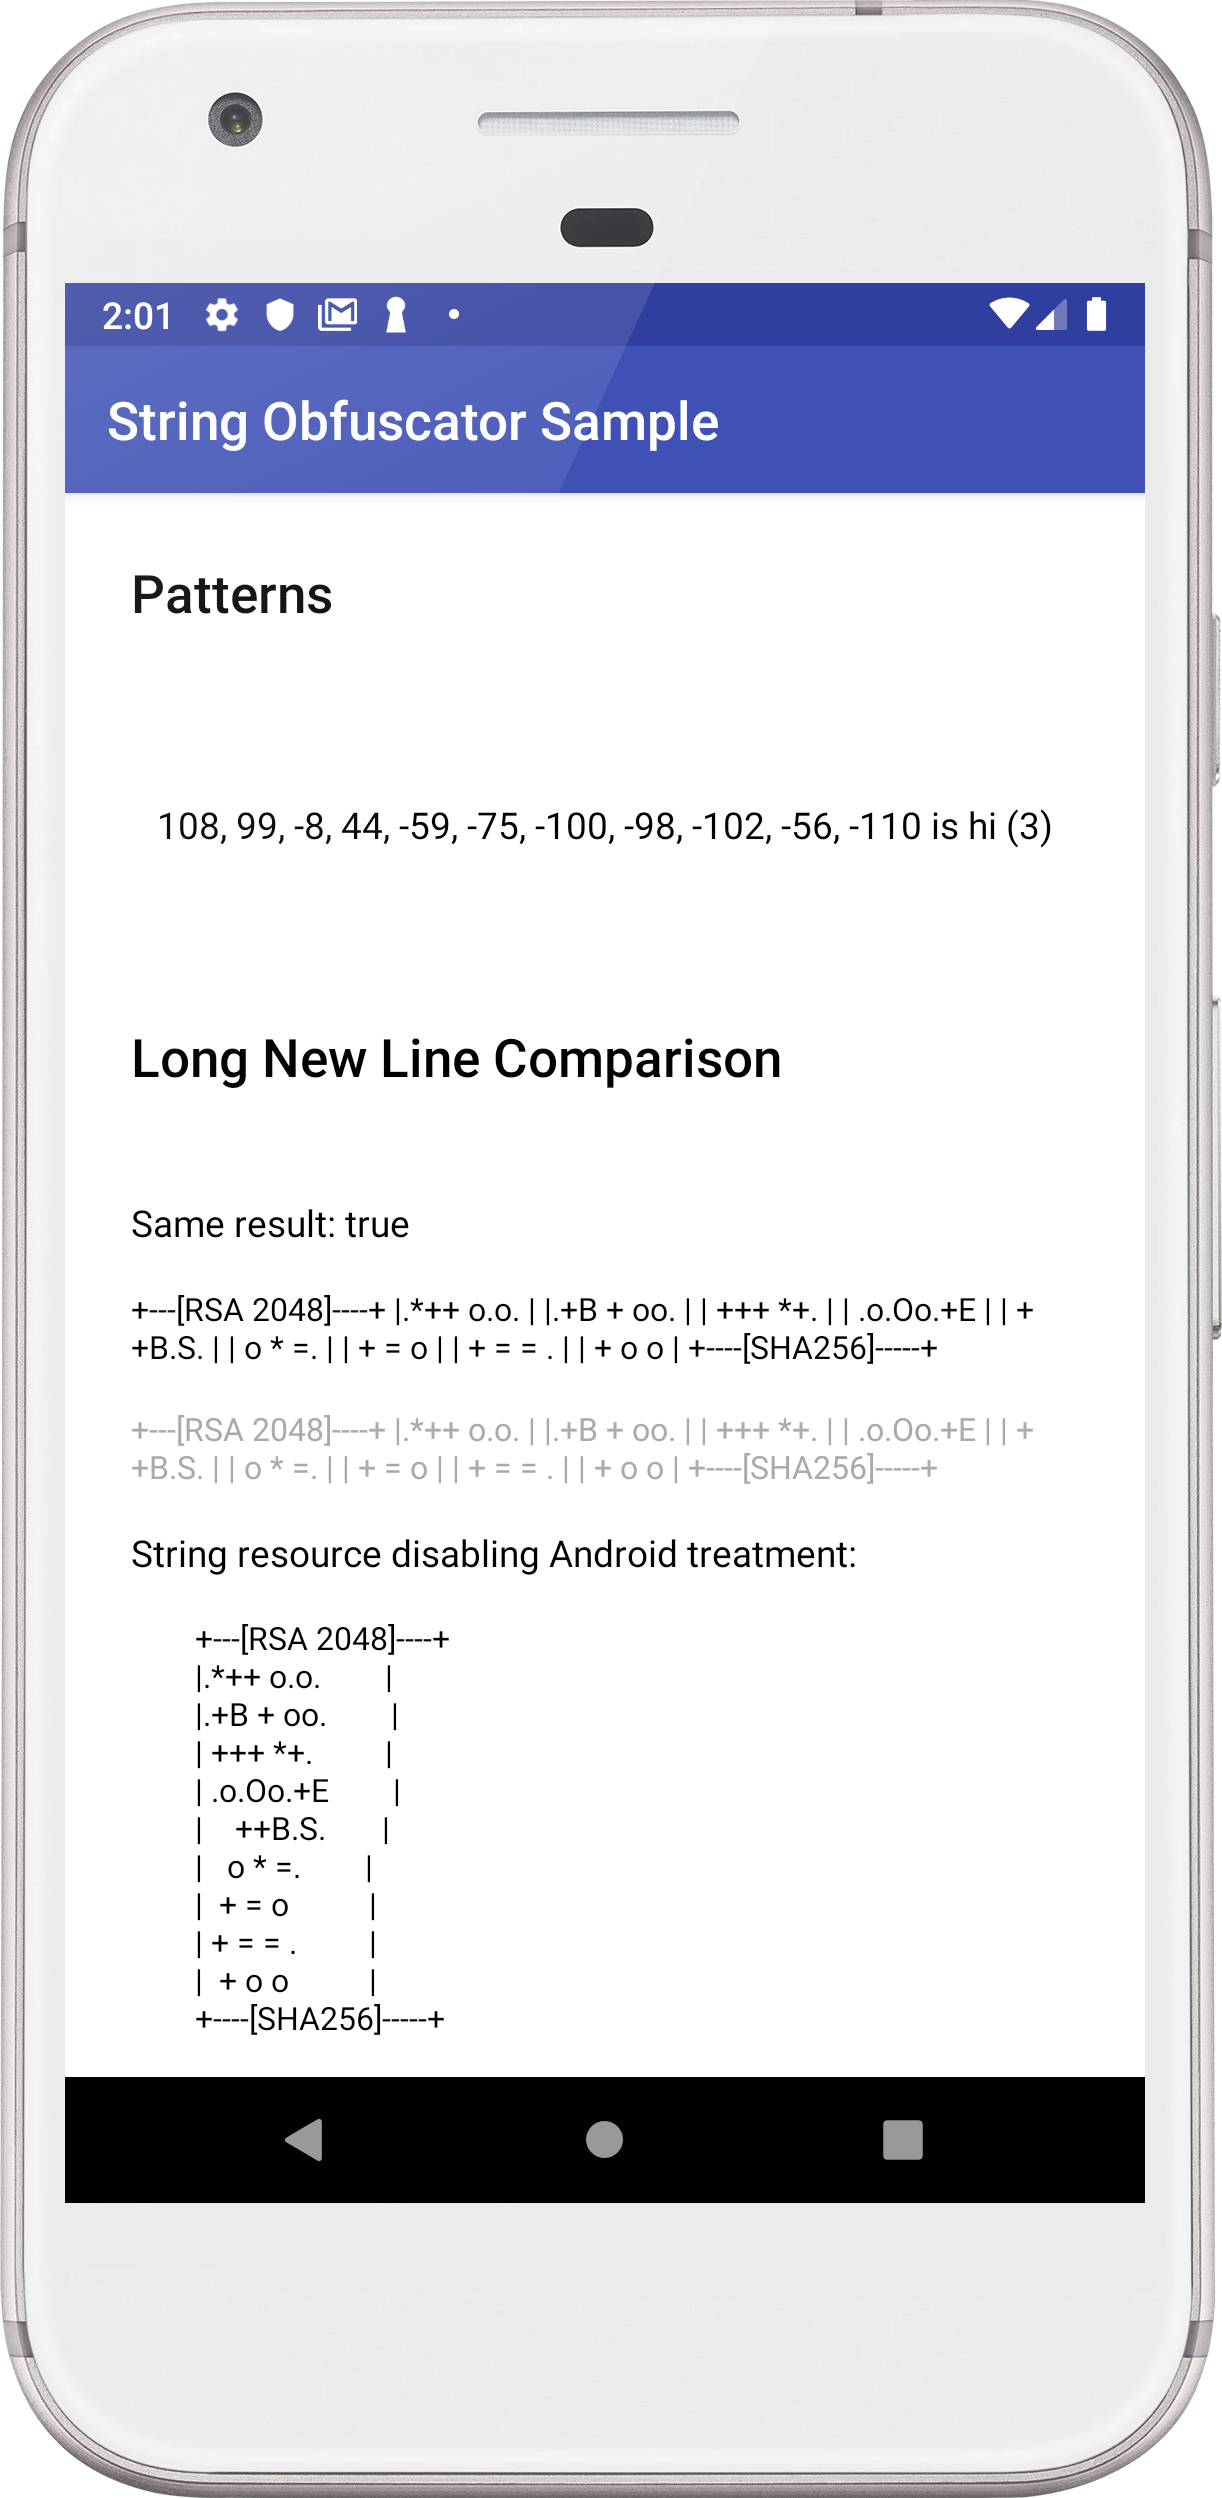
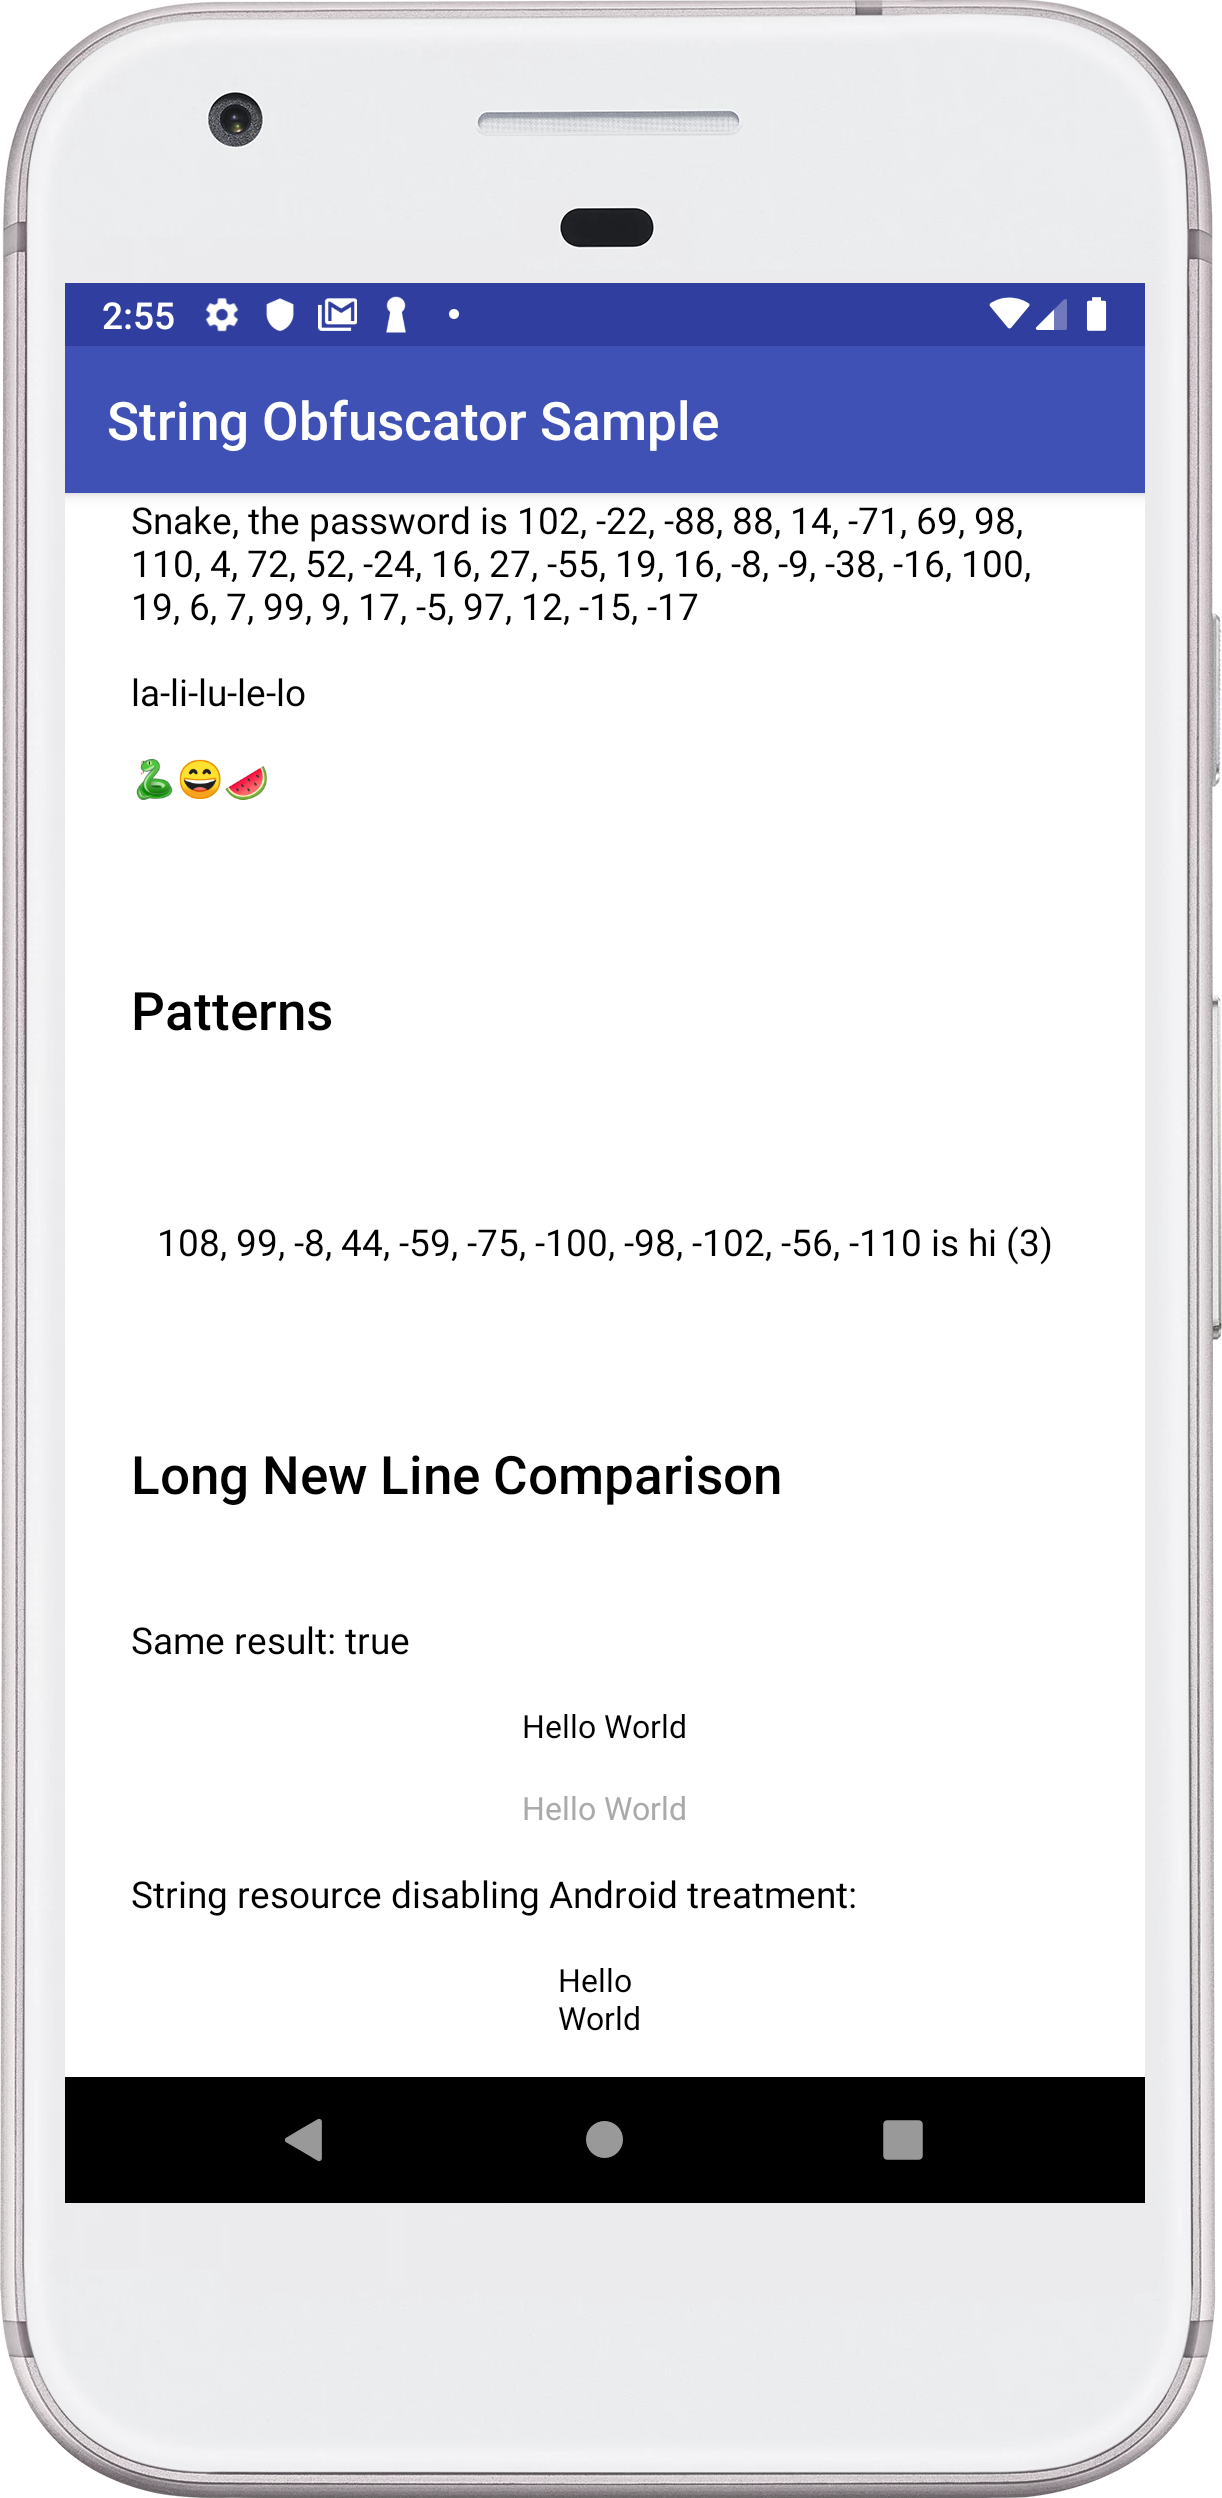
samples

diff --git a/app/src/main/java/com/efraespada/stringobfuscator/MainActivity.java b/app/src/main/java/com/efraespada/stringobfuscator/MainActivity.java
@@ -39,7 +39,7 @@ public class MainActivity extends AppCompatActivity {
             }
         });
 
-        boolean equals = SC.reveal(R.string.c3po).equals(getString(R.string.c3po_));
+        boolean equals = SC.reveal(R.string.hello_world_b).equals(getString(R.string.hello_world_a));
         String areEquals = "Same result: " +  equals;
         ((TextView) findViewById(R.id.same_value)).setText(areEquals);
     }
